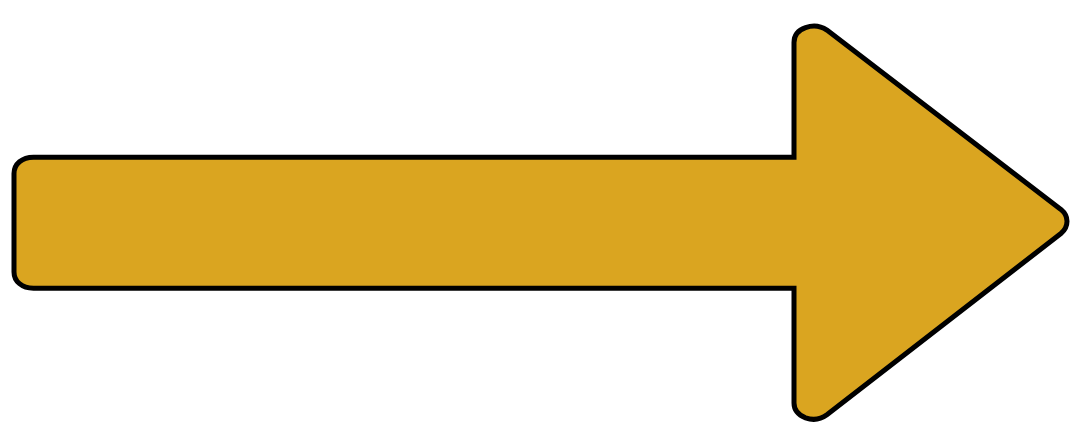
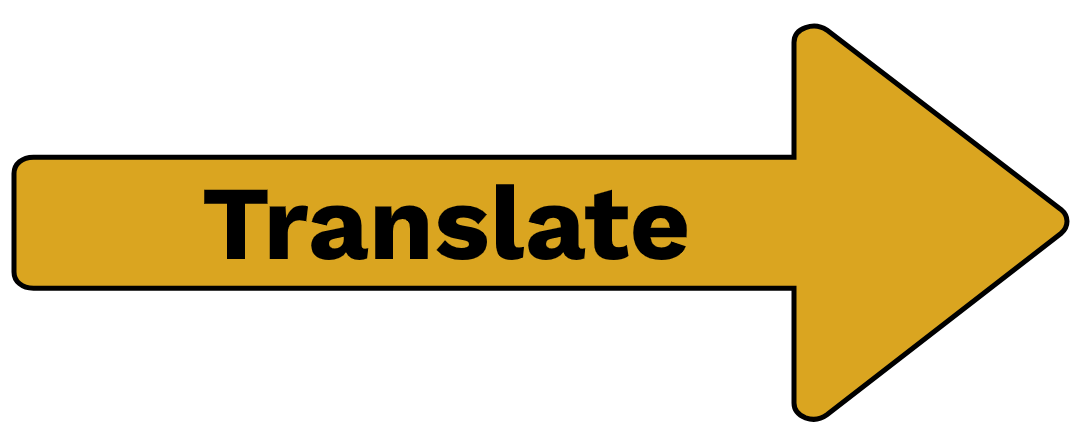
finish tts. change layout

Changed region(s): [[0.1833, 0.4099, 0.6417, 0.5856]]

diff --git a/public/index.html b/public/index.html
@@ -28,6 +28,14 @@
                 bar.style.display = "none";
             }
         }
+        function showtts() {
+            var tts = document.getElementById("form1");
+            if (tts.style.display === "none") {
+                tts.style.display = "block";
+            } else {
+                tts.style.display = "none";
+            }
+        }
     </script>
 
 </head>
@@ -50,8 +58,15 @@
         <!-- The arrow between the text areas -->
         <div class="grid-arrow">
             <!-- <button type="button" onclick="loadBar(); setCursor(); translate/doTranslation()">Translate</button> -->
-            <img src="img/orange_circles.gif" class="loading-symbol" id="load-processing"/>
+            <img src="img/orange_circles.gif" class="loading-symbol" id="load-processing" />
             <img src="img/arrow.png" id="load-done" onclick="loadCircle(); noCircle(); setCursor(); doTranslation()">
+            <br />
+            <tiptext>
+                Tip: Use $ to force a slang definition.
+            </tiptext>
+            <br /><br />
+            <tiptext id="example-slang">
+            </tiptext>
         </div>
 
         <!-- <div class="grid-arrow" id="load-done">
@@ -80,42 +95,28 @@
 
         <!-- The button to do the translations -->
         <div class="grid-button">
-            
-            <br /><br />
-            <tiptext>
-                Tip: Use $ to force a slang definition.
-            </tiptext>
-            <br /><br />
-            <tiptext id="example-slang">
-            </tiptext>
-
-            <div>
-                <br/>
+            <br/>
+            <button type="button" id="formButton" onclick="showtts()">Toggle Text To Speech</button>
+            <div id="form1" style="display: none;">
+                <br />
                 <div class="row">
-                    <label>Choose voice</label>
+                    <ttstext>Choose voice</ttstext>
                     <select id="voices"></select>
                 </div>
+                <br/>
                 <div class="row">
-                    <div class="col s6">
-                        <label>Rate</label>
-                        <p class="range-field">
-                            <input type="range" id="rate" min="1" max="100" value="10" />
-                        </p>
-                    </div>
-        
-        
-                    <div class="col s6">
-                        <label>Pitch</label>
-                        <p class="range-field">
-                            <input type="range" id="pitch" min="0" max="2" value="1" />
-                        </p>
-                    </div>
-                    <div class="col s12">
-                        <p>N.B. Rate and Pitch only work with native voice.</p>
-                    </div>
+                    <ttstext>Rate</ttstext>
+                    <p class="range-field">
+                        <input type="range" id="rate" min="1" max="100" value="10" class="golden-slider"/>
+                    </p>
+
+                    <ttstext>Pitch</ttstext>
+                    <p class="range-field">
+                        <input type="range" id="pitch" min="0" max="2" value="1" class="golden-slider"/>
+                    </p>
                 </div>
-        
-                <a href="#" id="speak">Speak</a>
+
+                <button type="button" id="speak" class="button-small">Speak</a>
             </div>
 
         </div>

diff --git a/public/css/styles.css b/public/css/styles.css
@@ -65,6 +65,17 @@ tiptext {
         1px 1px 0 #000000;
 }
 
+ttstext {
+    font-size: 1vw;
+    color: #d3ac48;
+    text-shadow:
+        -1px -1px 0 #000000,  
+        1px -1px 0 #000000,
+        -1px 1px 0 #000000,
+        1px 1px 0 #000000;
+}
+
+
 /********************/
 /* Text Area Styles */
 /********************/
@@ -169,7 +180,7 @@ textarea::placeholder {
 }
 .grid-arrow > img {
     width: 20vw;
-    padding-top: 13vh;
+    padding-top: 11vh;
     margin-left: auto;
     margin-right: auto;
 }
@@ -178,19 +189,6 @@ textarea::placeholder {
     padding-top: 10vh;
     display: none;
 }
-
-/* .grid-arrow > button {
-    background-color: #111;
-    color: #daa520;
-    width: 15vw;
-    height: 5vh;
-    font-family: 'Work Sans', sans-serif;
-    font-size: larger;
-    margin-bottom: -10vh;
-    margin-top: 10vh;
-    margin-left: 0.4vw;
-    position: absolute;
-} */
 
 .grid-button {
     grid-row: 2;
@@ -211,4 +209,62 @@ textarea::placeholder {
 .grid-tts {
     grid-row: 3;
     grid-column: 2;
+}
+
+button {
+    background-color: #111;
+    color: #daa520;
+    width: 15vw;
+    height: 6vh;
+    font-family: 'Work Sans', sans-serif;
+    font-size: larger;
+    margin-left: auto;
+    margin-right: auto;
+}
+
+.button-small {
+    background-color: #111;
+    color: #daa520;
+    width: 7.5vw;
+    height: 3vh;
+    font-family: 'Work Sans', sans-serif;
+    font-size: larger;
+    margin-left: auto;
+    margin-right: auto;
+}
+
+.golden-slider {
+    -webkit-appearance: none;
+    width: 50%;
+    height: 25px;
+    background:#101010;
+    outline: none;
+    opacity: 0.7;
+    -webkit-transition: .2s;
+    transition: opacity .2s;
+    margin-top: -12px
+}
+
+.golden-slider:hover {
+    opacity: 1;
+}
+  
+.golden-slider::-webkit-slider-thumb {
+    -webkit-appearance: none;
+    appearance: none;
+    width: 25px;
+    height: 25px;
+    background: #daa520;
+    cursor: pointer;
+}
+  
+.golden-slider::-moz-range-thumb {
+    width: 25px;
+    height: 25px;
+    background: #ff0000;
+    cursor: pointer;
+}
+
+select {
+    background-color: #999999;
 }
